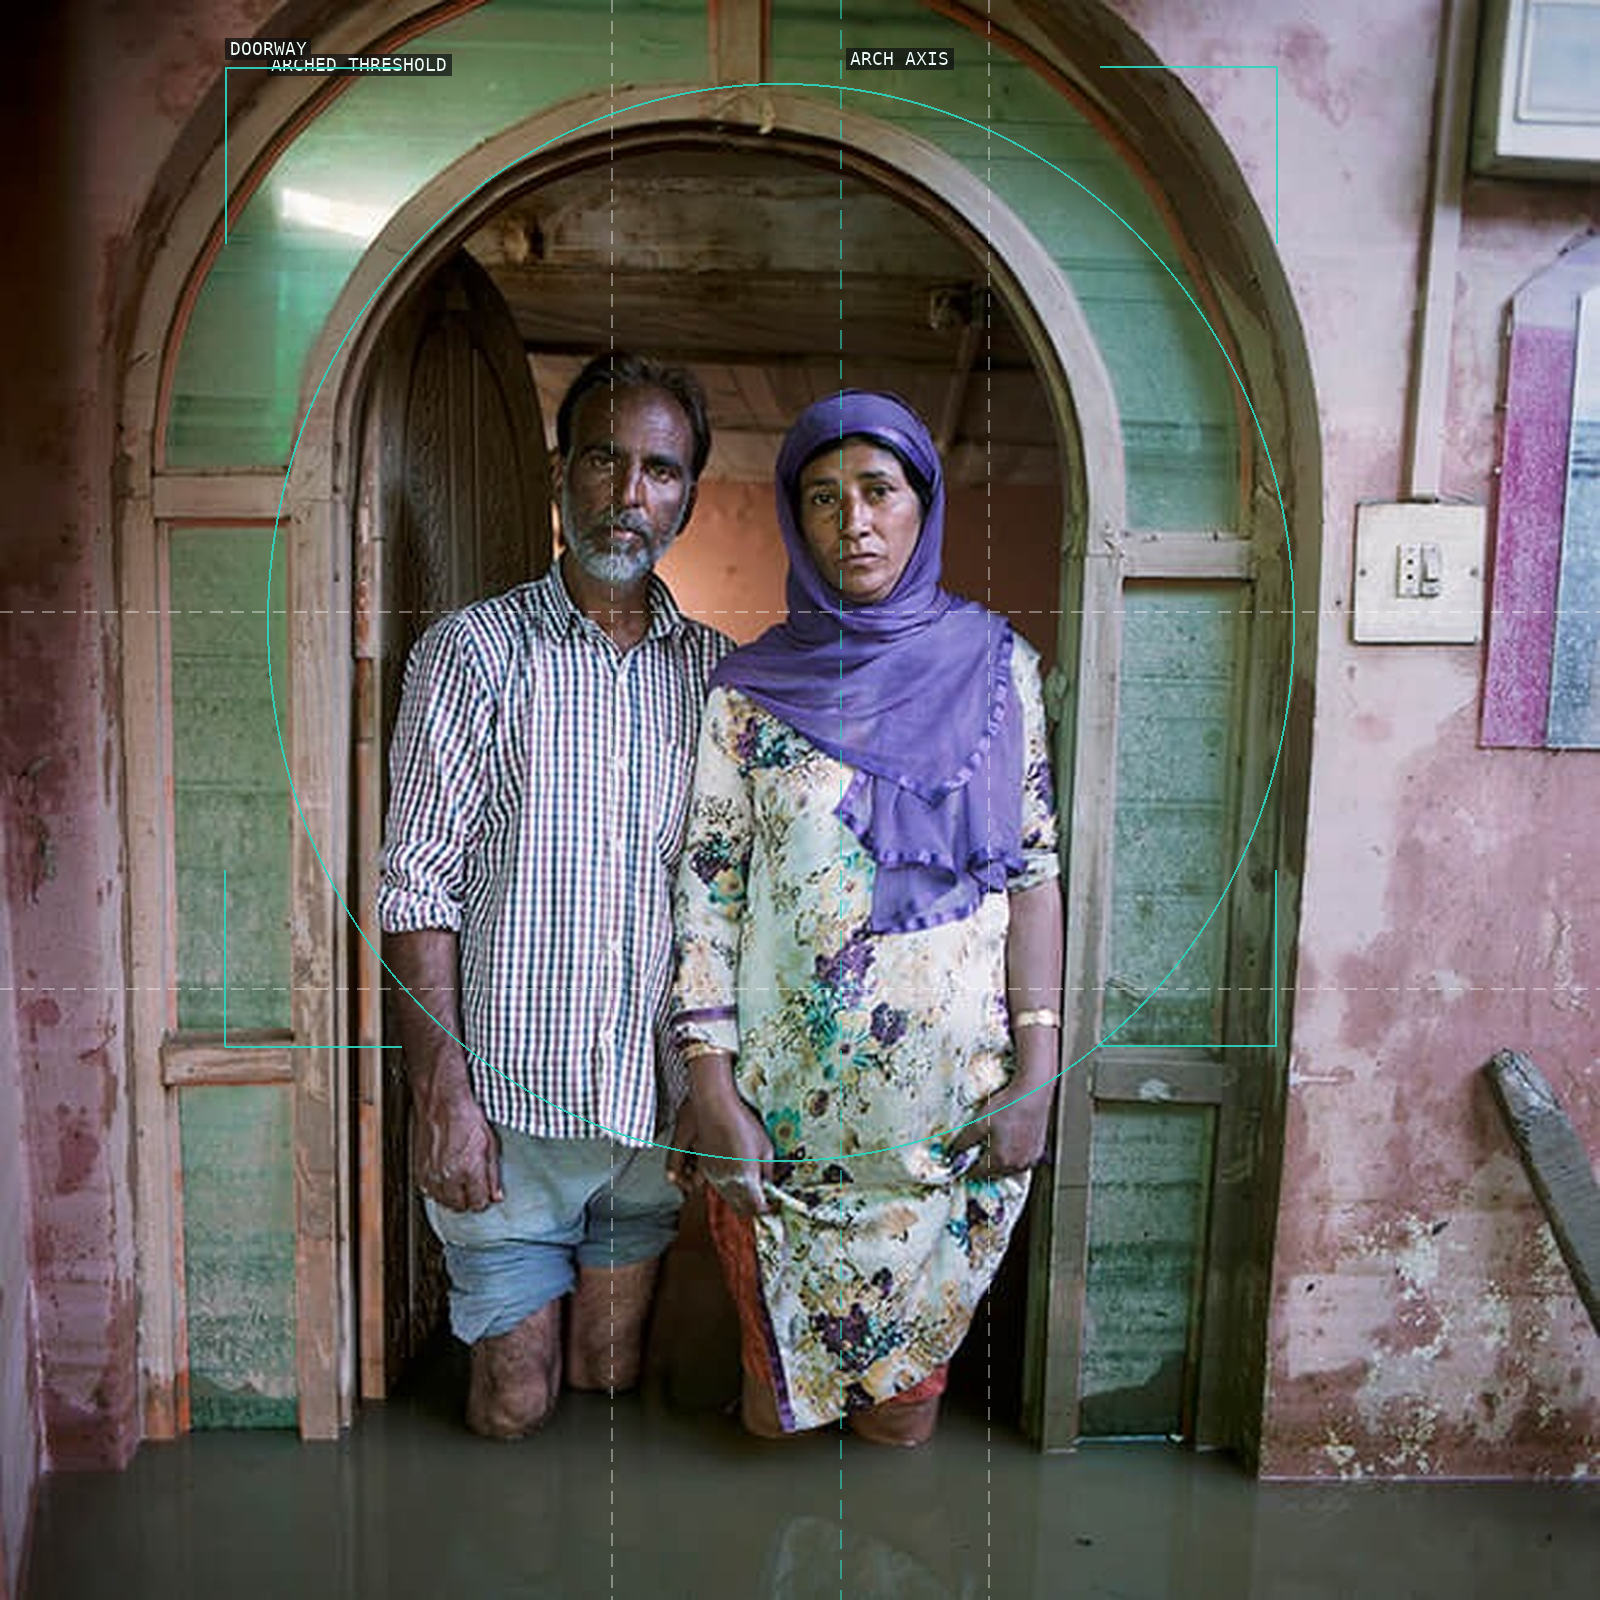
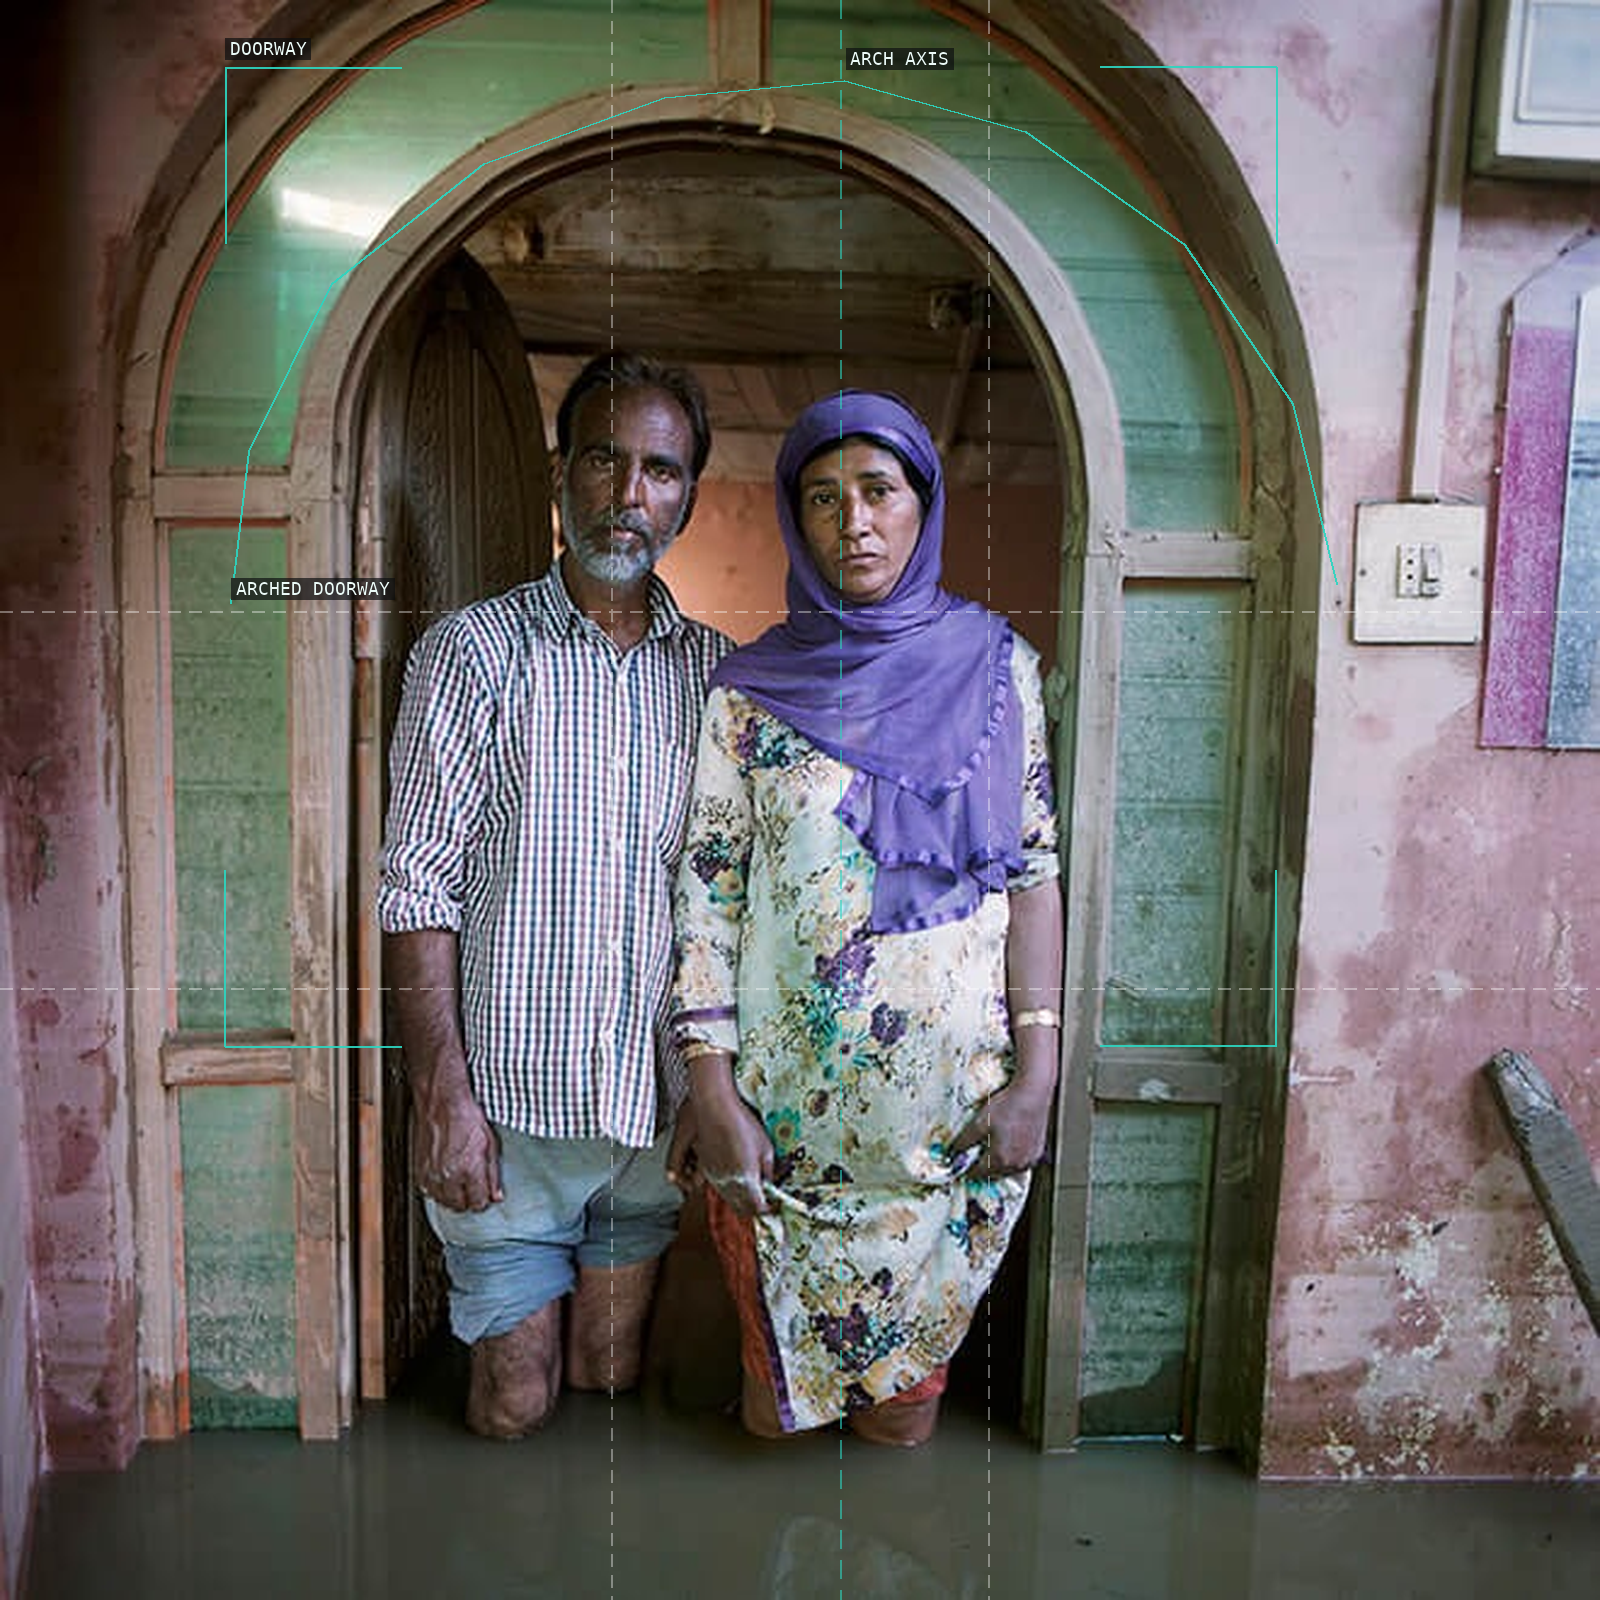
resolve critique: gideon-mendel

Changed region(s): [[0.1562, 0.0312, 0.2812, 0.0625], [0.125, 0.3438, 0.25, 0.375]]

diff --git a/content/gideon-mendel/critique.md b/content/gideon-mendel/critique.md
@@ -1,4 +1,4 @@
-verdict: revise
+verdict: resolved
 
 ## Critique round — 2026-08-03
 
@@ -11,3 +11,8 @@ Reviewed all 12 rendered proofs against their overlay specifications, analyzer r
 ### Advisory (non-blocking)
 
 - None.
+
+## Builder resolution — 2026-08-03
+
+- Resolved required item 1: replaced the closed `ARCHED THRESHOLD` ellipse in `12-chinta-samundri-davi` with an open `ARCHED DOORWAY` polyline that follows the visible arch. The matching chapter passage now describes the open trace and does not claim a closed threshold shape.
+- Re-verified required fixes from the complete critique history: 2026-08-03, round 1. This is the only prior round; its required overlay/prose correction remains present in the rendered proof and both byte-identical chapter files.
